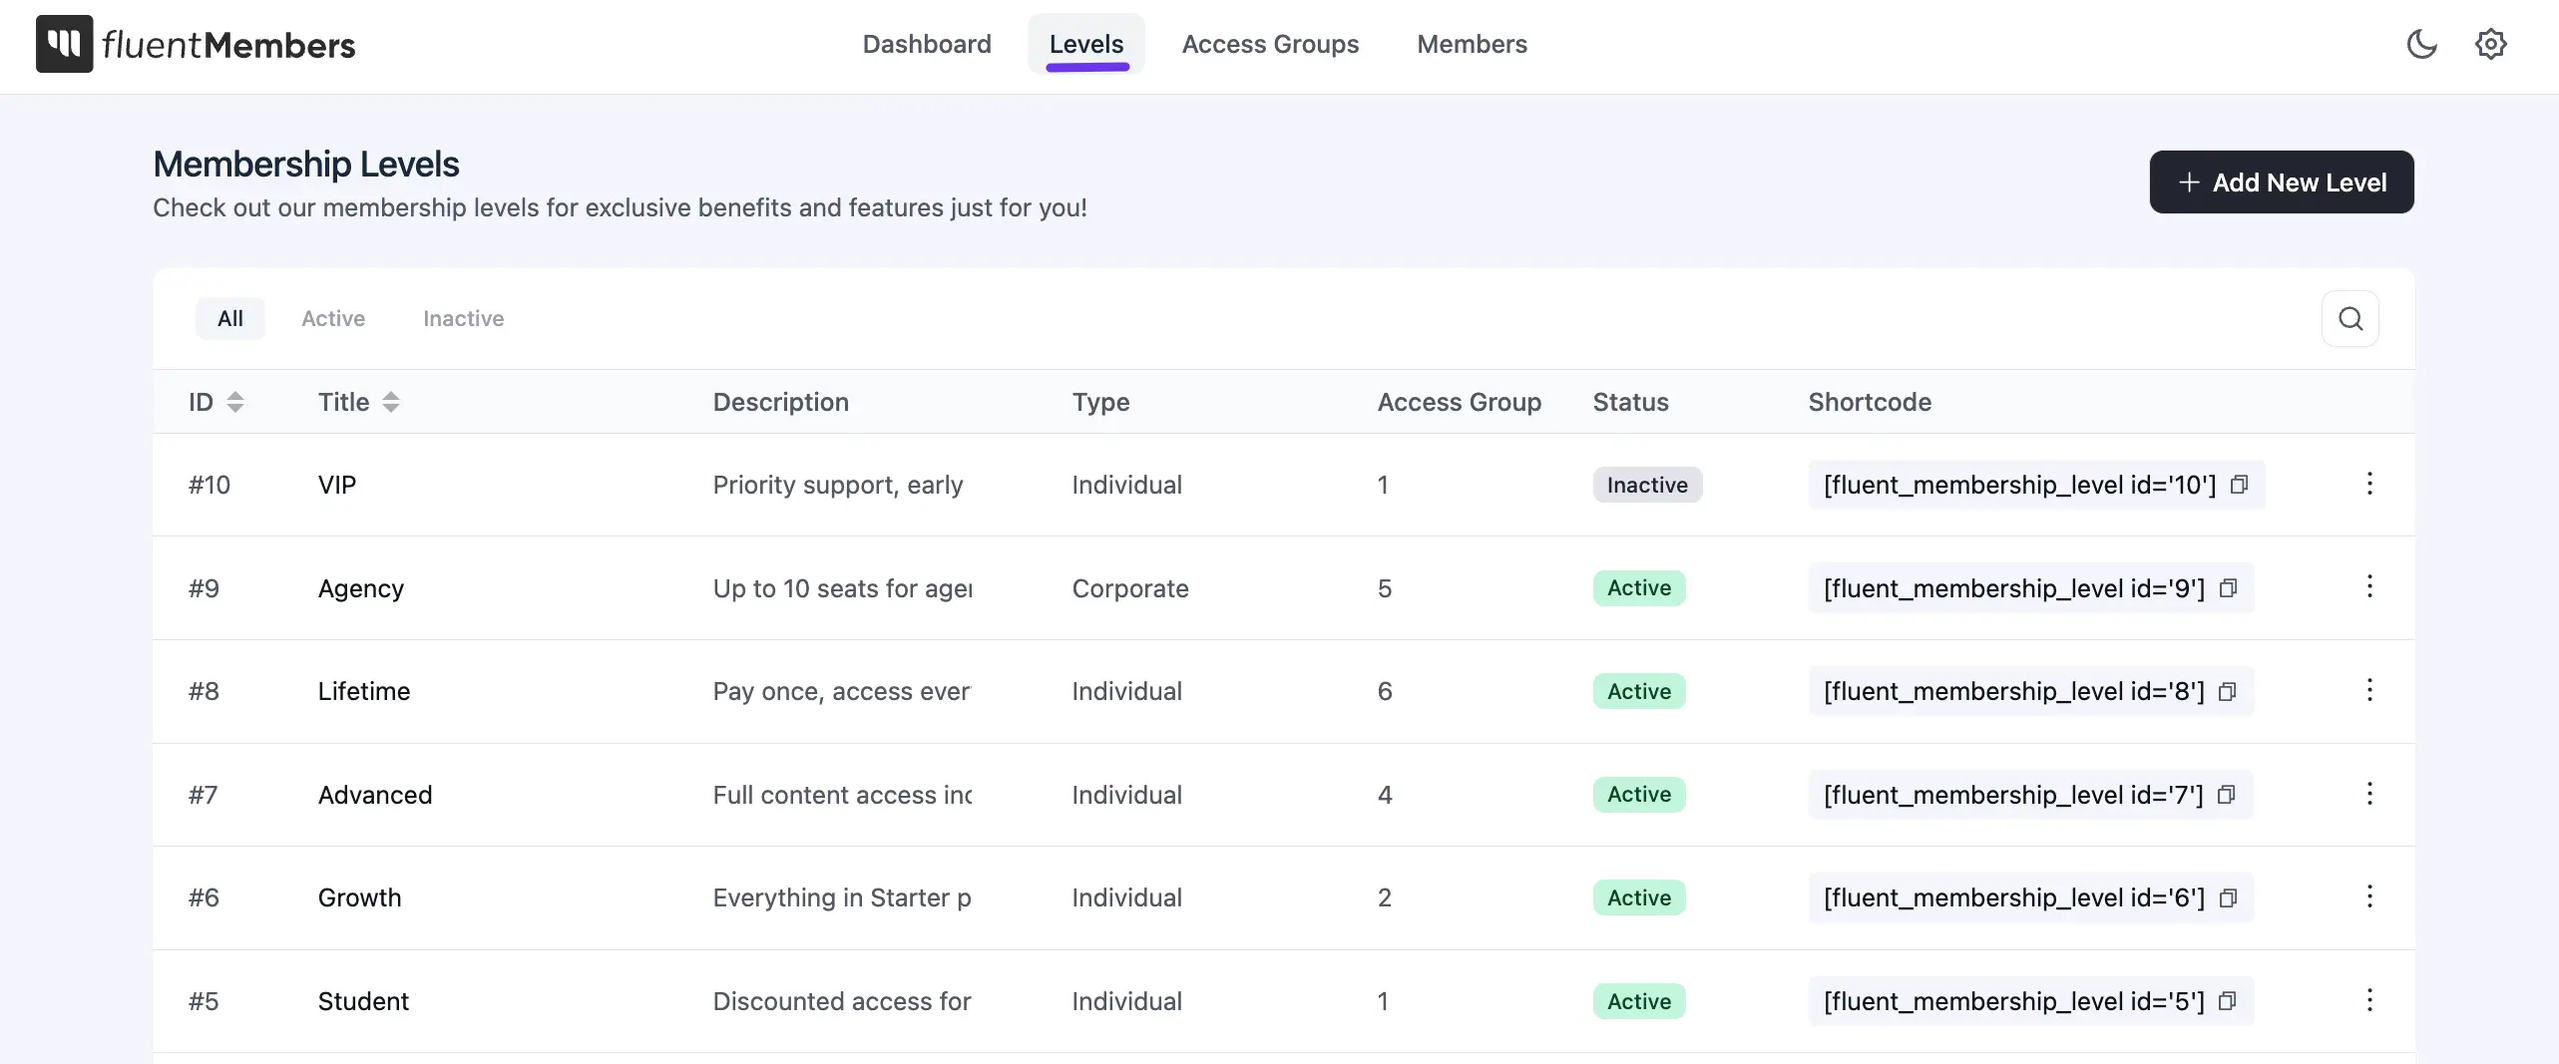
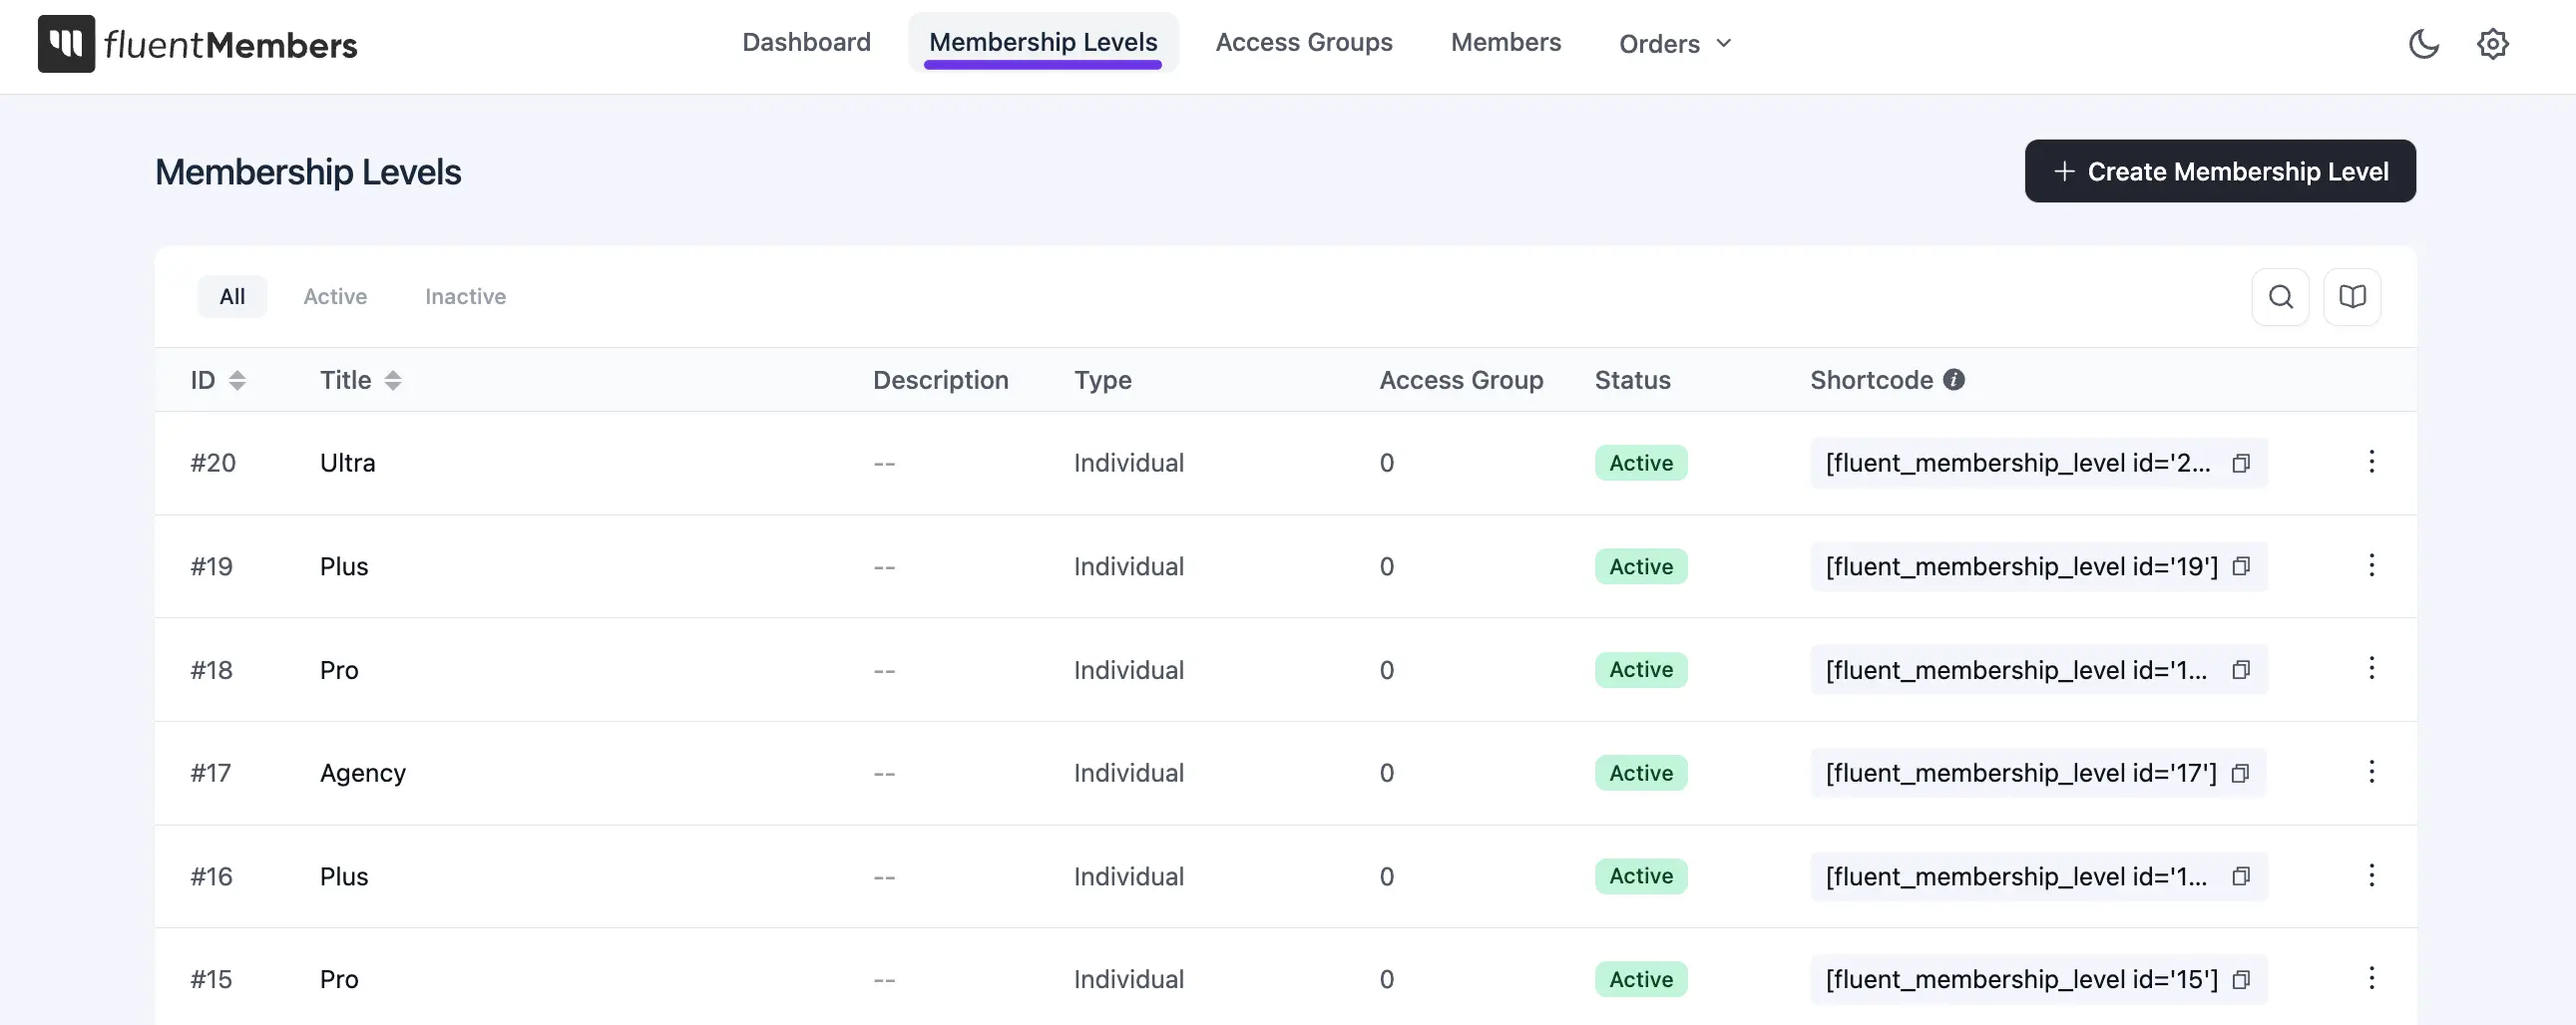
update Membership Levels Overview doc

diff --git a/guide/levels/index.md b/guide/levels/index.md
@@ -4,7 +4,7 @@ A **Membership Level** is the core product or subscription plan you offer on you
 
 ## Access Membership Levels
 
-Log in to your WordPress admin, click **Fluent Members** in the left sidebar, then click **Levels** in the plugin menu. This opens the Membership Levels list where you can view, create, and manage every plan on your site.
+Log in to your WordPress admin, click **Fluent Members** in the left sidebar, then click **Membership Levels** in the plugin's own top navigation. This opens the Membership Levels list where you can view, create, and manage every plan on your site.
 
 ## Understanding the Levels Dashboard
 
@@ -18,24 +18,24 @@ On the Levels screen, you will see a list of all your created levels with the fo
 - **Status:** Indicates if the level is currently **Active** (available for users) or **Inactive**.
 - **Shortcode:** Provides a ready-to-use shortcode (e.g. `[fluent_membership_level id="1"]`) with a quick copy button to display the pricing card on your pages.
 
-You can also use the **All**, **Active**, and **Inactive** tabs at the top to filter your view, or use the search icon to find a specific level by its title. To create a new plan, click **+ Add New Level** at the top right.
+You can also use the **All**, **Active**, and **Inactive** tabs at the top to filter your view, or use the search icon to find a specific level by its title. To create a new plan, click **+ Create Membership Level** at the top right.
 
-![Levels Dashboards](/images/levels/membership-levels-overview/access-levels-1.webp)
+![The Membership Levels list, showing the ID, Title, Description, Type, Access Group, Status, and Shortcode columns](/images/levels/membership-levels-overview/access-levels-1.webp)
 
 ## Level Configuration Tabs
 
-When you click on any level title from the list or three-dots from the right side, you open its configuration screen.
+Click a level's title to open its configuration screen directly, or click the three-dot menu at the end of its row for a small **Edit** / **Delete** menu.
 
-![Levels list](/images/levels/membership-levels-overview/edit-levels-2.webp)
+![The three-dot row menu open on a level, showing Edit and Delete](/images/levels/membership-levels-overview/edit-levels-2.webp)
 
-This area is divided into four main tabs:
+Choosing **Edit** opens the level's configuration screen, with a **Cancel** / **Save** bar (and an **Unsaved Changes** indicator once you start editing) at the top, plus a **More Actions** dropdown for anything not covered by the tabs below it. This area is divided into four main tabs:
 
-1. **Edit Level:** Change the title, description, and status. For Corporate levels, you can also set the maximum member limit here.
+1. **Edit Level:** Change the title, description, and status under **Level Information**. For Corporate levels, you'll also see a **Maximum Member** field here, leave it empty for unlimited corporate seats.
 2. **Pricing:** Set up how you want to sell this level. You must add at least one Pricing Plan (like a one-time fee or subscription) for users to join.
 3. **Access Group:** Select which protected folders or content rules this level unlocks.
 4. **Members:** View a complete list of all WordPress users who currently hold this specific membership level.
 
-![Edit Level](/images/levels/membership-levels-overview/edit-levels-3.webp)
+![The Edit Level tab, showing the Title, Description, Maximum Member, and Status fields, with Cancel, Save, and More Actions controls above](/images/levels/membership-levels-overview/edit-levels-3.webp)
 
 ### Recommended Setup Order
 
